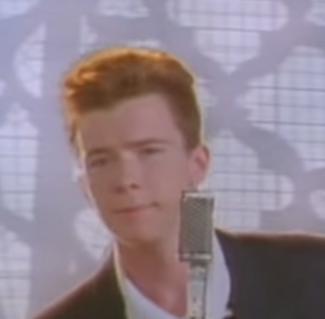
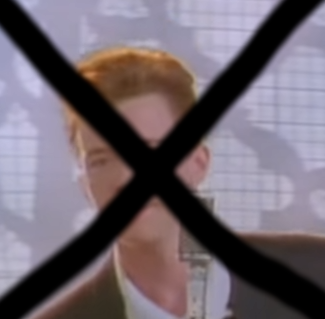
some fixes

Changed region(s): [[0.0, 0.0, 1.0, 1.0]]

diff --git a/background.js b/background.js
@@ -15,7 +15,7 @@ chrome.webRequest.onBeforeRequest.addListener(
     };
   },
   {
-    urls: ["*://*.youtube.com/watch?v=dQw4w9WgXcQ"],
+    urls: ["*://*.youtube.com/watch?v=dQw4w9WgXcQ*"],
     types: [
       "main_frame",
       "sub_frame",

diff --git a/README.md b/README.md
@@ -1,0 +1,3 @@
+# AntiRickRoll
+
+An extension that saves you from getting rickrolled
